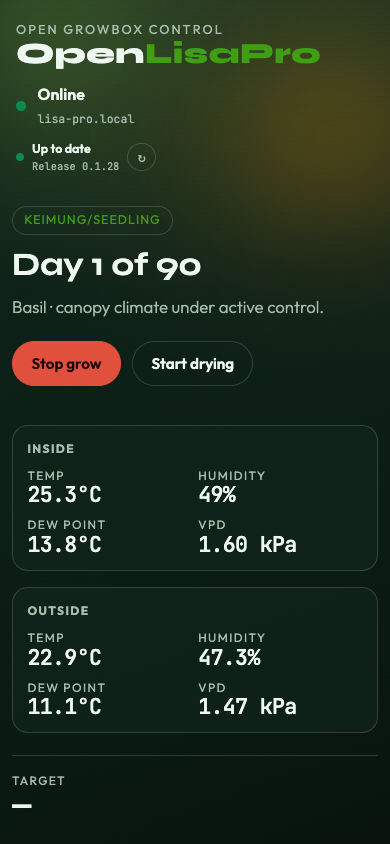
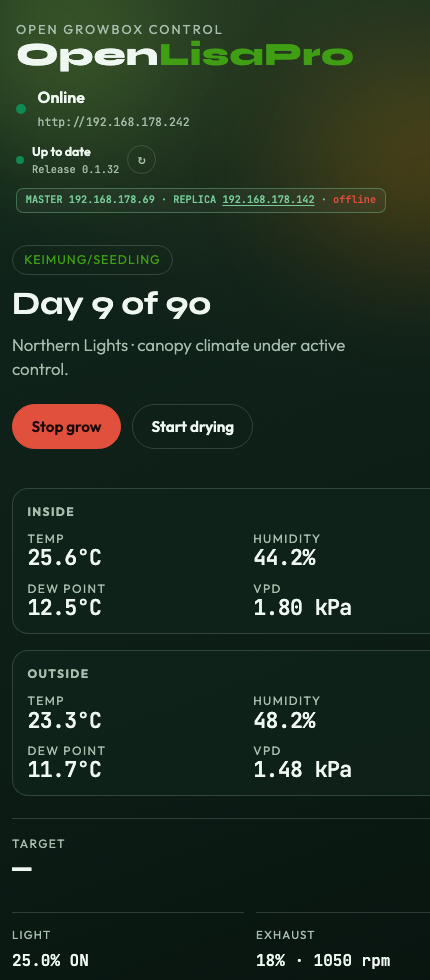
Refresh dashboard screenshots

diff --git a/src/lisa_pro_ui/static/js/app.js b/src/lisa_pro_ui/static/js/app.js
@@ -1228,6 +1228,13 @@
       banner.dataset.role = ha.role;
       banner.replaceChildren();
       const addText = (value) => banner.appendChild(document.createTextNode(value));
+      const addHealth = (online) => {
+        const status = document.createElement("span");
+        status.className = "ha-health";
+        status.dataset.state = online ? "online" : "offline";
+        status.textContent = online ? "online" : "offline";
+        banner.appendChild(status);
+      };
       const host = (value) => {
         try {
           const parsed = new URL(value);
@@ -1248,13 +1255,15 @@
       };
       const ownHost = host(ha.node_url);
       if (isReplica) {
-        addText(`REPLICA · ${ha.node_name} (${ownHost || "IP unavailable"}) · MASTER `);
+        addText(`REPLICA ${ownHost || "IP unavailable"} · MASTER `);
         if (!addLink(ha.master_url, host(ha.master_url), "Open the master OpenLisaPro UI")) addText("not configured");
-        addText(` · ${ha.master_healthy ? "online" : "unreachable"}`);
+        addText(" · ");
+        addHealth(ha.master_healthy);
       } else {
-        addText(`${ha.configured_role === "replica" ? "BACKUP MASTER" : "MASTER"} · ${ha.node_name} (${ownHost || "IP unavailable"}) · REPLICA `);
+        addText(`${ha.configured_role === "replica" ? "BACKUP MASTER" : "MASTER"} ${ownHost || "IP unavailable"} · REPLICA `);
         if (!addLink(ha.replica_url, host(ha.replica_url), "Open the replica OpenLisaPro UI")) addText("unknown");
-        addText(` · ${ha.replica_healthy ? "online" : "offline"}`);
+        addText(" · ");
+        addHealth(ha.replica_healthy);
       }
       document.querySelectorAll("#tab-control .control-toolbar input, #tab-control .control-toolbar button, #manualModePanel input, #controlForm input, #controlForm select, #controlForm button, #tab-device input, #tab-device select, #tab-device button").forEach((el) => {
         if (el.dataset.haWasDisabled === undefined) el.dataset.haWasDisabled = el.disabled ? "1" : "0";

diff --git a/src/lisa_pro_ui/static/css/app.css b/src/lisa_pro_ui/static/css/app.css
@@ -1592,6 +1592,8 @@ input:focus {
 }
 .ha-banner[data-role="replica"] { border-color: rgba(239, 178, 86, .45); color: #efb256; }
 .ha-banner[data-role="primary"] { border-color: rgba(118, 202, 150, .4); color: #76ca96; }
+.ha-health[data-state="offline"] { color: var(--danger, #ff6868); }
+.ha-health[data-state="online"] { color: var(--ok, #76ca96); }
 .ha-banner a { color: inherit; text-decoration: underline; text-underline-offset: 0.15em; }
 .ha-banner a:hover { color: var(--text, #fff); }
 .ha-readonly { opacity: .58; }
